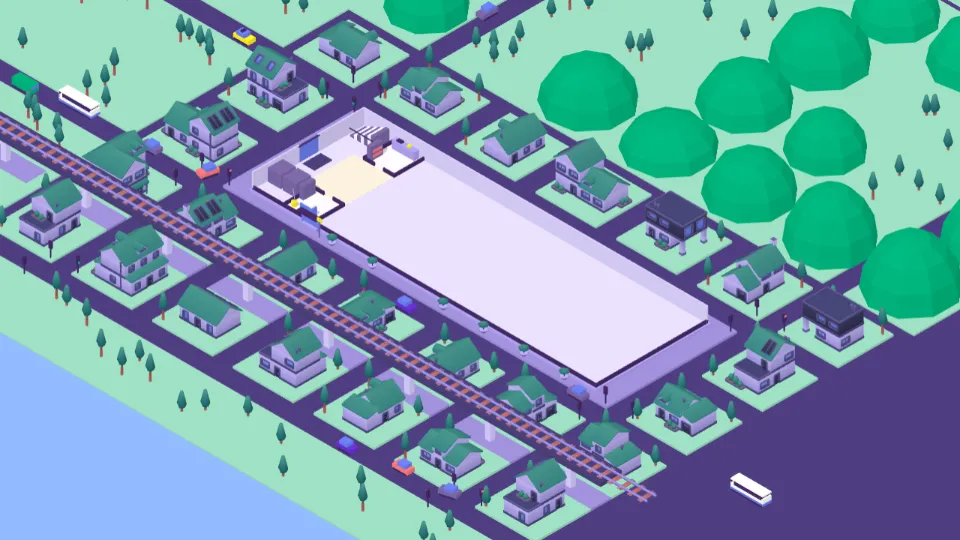
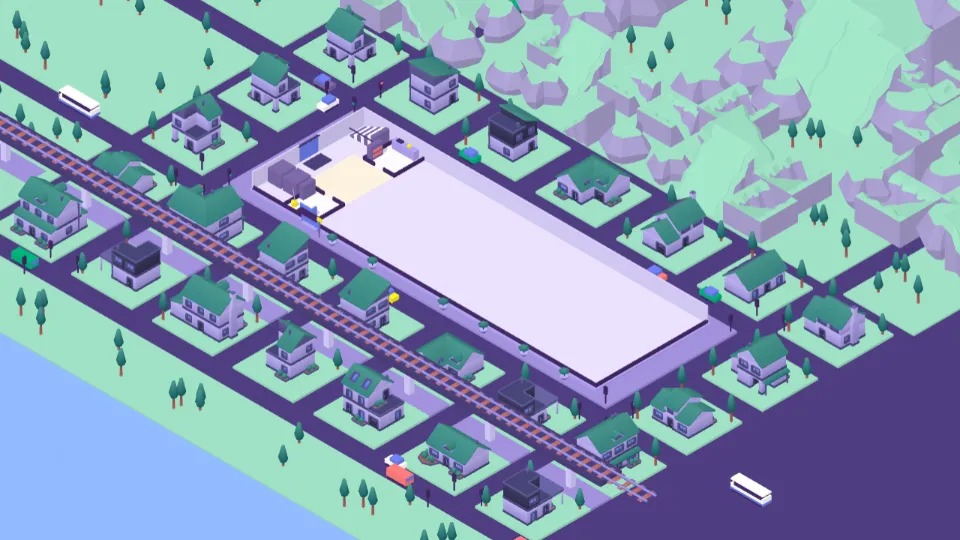
Fix: fix the hills in Amplify Hills (#173)

diff --git a/src/office/scene/Town.tsx b/src/office/scene/Town.tsx
@@ -6,8 +6,8 @@ import { useContext, useMemo, useRef } from 'react';
 import * as THREE from 'three';
 import { FLOOR, WEST, widthOf } from '../../config/office';
 import type { GameState } from '../../sim/state';
-import { CITY, modelUrl } from '../assets';
-import { PAVEMENT, RAILWAY, STREET, hidesOffice, officeBlock, streetLevel, townBlocks, trainAt, type TownBlock } from '../city';
+import { CITY, NATURE, modelUrl } from '../assets';
+import { PAVEMENT, RAILWAY, STREET, hidesOffice, officeBlock, rangeOf, streetLevel, townBlocks, trainAt, type TownBlock } from '../city';
 import { type Ground, type Site } from '../sites';
 import { BUS_STOP } from '../traffic';
 import { StreetLife } from './StreetLife';
@@ -54,6 +54,7 @@ export function Town({ floor, seed, site, game, still, materials }: {
         {/* Where the town is not all town, the land goes on beyond its last streets. */}
         {site.far && beyond('north', site.far, building.w / 2, edge.north - 100.5, 400, 200)}
         {site.far && beyond('west', site.far, edge.west - 100.5, FLOOR.h / 2, 200, 400)}
+        {site.hills && <Range seed={seed} site={site} materials={materials} />}
         {site.front && beyond('south', site.front, building.w / 2, (shore ? shore.to : edge.south) + 100, 400, 200, 0.02)}
         {shore && [edge.west - 100, edge.east + 100].map((x) => beyond(`shore${x}`, site.shore!, x, (shore.from + shore.to) / 2, 200, shore.to - shore.from, 0.04))}
         <mesh position={[own.x + own.w / 2, PAVEMENT / 2, own.z + own.d / 2]} material={materials.pavement}>
@@ -82,7 +83,6 @@ function TownBlockView({ block, site, pad, viewTurn, materials, tint }: { block:
   // Water and sand lie lower than a pavement; a field is striped with rows of another crop.
   const height = ground === 'water' ? 0.06 : ground === 'sand' ? 0.12 : block.land ? 0.16 : PAVEMENT;
   const building = useContext(Shape);
-  const hillAsBuilding = hill && { building: { file: '', w: hill.radius * 2, height: hill.height, d: hill.radius * 2 }, x: block.x, z: block.z, turn: 0 };
   return (
     <group>
       <mesh position={[x, height / 2, z]} material={materials[ground]}>
@@ -96,12 +96,12 @@ function TownBlockView({ block, site, pad, viewTurn, materials, tint }: { block:
         ))}
       {ground === 'sand' &&
         [-1.6, 0.4, 2].map((dx, n) => <KitModel key={dx} file={CITY.parasols[n % 2]!} position={[block.x + dx, height, block.z + (n - 1) * 1.2]} scale={2} tint={tint} />)}
-      {/* A hill: a low dome, flat-sided like everything else in town. */}
-      {hill && hillAsBuilding && !hidesOffice(hillAsBuilding, viewTurn, 1, building) && (
-        <mesh position={[block.x, height, block.z]} scale={[hill.radius, hill.height, hill.radius]} material={materials.plant}>
-          <sphereGeometry args={[1, 9, 4, 0, Math.PI * 2, 0, Math.PI / 2]} />
-        </mesh>
-      )}
+      {/* Foothills: the Nature Kit's slopes and cliffs, in the town's tones. */}
+      {hill
+        ?.filter((piece) => !hidesOffice(piece, viewTurn, piece.scale, building))
+        .map((piece, n) => (
+          <NatureModel key={n} file={piece.building.file} position={[piece.x, height + NATURE.sink * piece.scale, piece.z]} turn={piece.turn} scale={piece.scale} materials={materials} />
+        ))}
       {block.items
         .filter((item) => !hidesOffice(item, viewTurn, site.scale, building))
         .map((item, n) => (
@@ -196,6 +196,53 @@ function KitModel({ file, position, turn = 0, scale, tint, center = [0, 0] }: {
     <group position={position} rotation={[0, (turn * Math.PI) / 2, 0]} scale={scale}>
       <primitive object={object} position={[-center[0], 0, -center[1]]} />
     </group>
+  );
+}
+
+/** A model from the Nature Kit: each of its materials is swapped for the tone of the same name in the theme. */
+function NatureModel({ file, position, turn, scale, materials }: { file: string; position: [number, number, number]; turn: number; scale: number; materials: Materials }) {
+  const { scene } = useGLTF(modelUrl(file));
+  const object = useMemo(() => {
+    const copy = scene.clone(true);
+    copy.traverse((child) => {
+      const mesh = child as THREE.Mesh;
+      if (mesh.isMesh) mesh.material = materials[NATURE.tones[(mesh.material as THREE.Material).name] ?? 'rock'];
+    });
+    return copy;
+  }, [scene, materials]);
+  return (
+    <group position={position} rotation={[0, (turn * Math.PI) / 2, 0]} scale={scale}>
+      <primitive object={object} />
+    </group>
+  );
+}
+
+/**
+ * The range behind the town: faceted cones in rows, green at the foot and rock
+ * above, each row higher than the one in front. A peak that would hide the
+ * office from a turned view is left out, as a building is.
+ */
+function Range({ seed, site, materials }: { seed: number; site: Site; materials: Materials }) {
+  const viewTurn = useContext(ViewTurn);
+  const building = useContext(Shape);
+  const peaks = useMemo(() => rangeOf(seed, site, building), [seed, site, building]);
+  // The rock starts this far up a peak; the cap is the same cone, from there to the top.
+  const rockFrom = 0.55;
+  return (
+    <>
+      {peaks
+        .filter((peak) => !hidesOffice({ building: { file: '', w: peak.radius * 2, height: peak.height, d: peak.radius * 2 }, x: peak.x, z: peak.z, turn: 0 }, viewTurn, 1, building))
+        .map((peak, n) => (
+          <group key={n} position={[peak.x, 0, peak.z]} rotation={[0, peak.angle, 0]}>
+            <mesh position={[0, peak.height / 2, 0]} material={materials.plant}>
+              <coneGeometry args={[peak.radius, peak.height, peak.sides, 1]} />
+            </mesh>
+            <mesh position={[0, peak.height * (rockFrom + (1 - rockFrom) / 2), 0]} material={materials.rock}>
+              <coneGeometry args={[peak.radius * (1 - rockFrom) * 1.02, peak.height * (1 - rockFrom) * 1.01, peak.sides, 1]} />
+            </mesh>
+          </group>
+        ))}
+    </>
   );
 }
 

diff --git a/src/office/city.ts b/src/office/city.ts
@@ -4,7 +4,7 @@
 // drives in the streets is in traffic.ts.
 
 import { BUILDINGS, FLOOR, WEST, widthOf, type Building } from '../config/office';
-import { CITY, type CityBuilding } from './assets';
+import { CITY, NATURE, type CityBuilding } from './assets';
 import { SITES, SITE_YARD, type Ground, type Site } from './sites';
 
 export interface TownBuilding {
@@ -14,6 +14,23 @@ export interface TownBuilding {
   z: number;
   /** Quarter turns. */
   turn: number;
+}
+
+/** A piece of a foothill: drawn `scale` times the size of its model. */
+export interface HillPiece extends TownBuilding {
+  scale: number;
+}
+
+/** A peak of the range behind the town: a faceted cone, green at its foot and rock above. */
+export interface RangePeak {
+  /** Middle of its foot, in floor tiles. */
+  x: number;
+  z: number;
+  radius: number;
+  height: number;
+  /** Sides of the cone, and how far it is turned round. */
+  sides: number;
+  angle: number;
 }
 
 /** A block of the town: what it is covered with and what stands on it. */
@@ -27,8 +44,8 @@ export interface TownBlock {
   ground: Ground;
   /** The building, the things in a yard, or the trees. */
   items: TownBuilding[];
-  /** A hill that takes up the block: how high it is and how wide at its foot. */
-  hill?: { height: number; radius: number };
+  /** Foothills on the block: pieces of the Nature Kit that overlap with those of the blocks beside it. */
+  hill?: HillPiece[];
   /**
    * For open land: the ground it covers, by its middle and its size. It runs
    * on into the blocks beside it, and stops short only of a street with traffic.
@@ -172,9 +189,9 @@ export function townBlocks(seed: number, site: Site = SITES.capital, building: B
         continue;
       }
       if (site.far && (i <= -2 || j <= -2)) {
-        const hill = site.hills && j <= -2 && chance(seed, i, j, 11) < 0.7;
+        const hill = site.hills && j <= -2 && chance(seed, i, j, 11) < 0.8 ? hillOn(seed, i, j, x, z, building) : undefined;
         const trees = site.far === 'grass' && !hill ? treesOn(seed, i, j, x, z, 5, site, building) : [];
-        blocks.push({ i, j, x, z, ground: site.far, items: trees, land: landOf(i, j, building), ...(hill && { hill: { height: 2.6 + chance(seed, i, j, 12) * 2.6, radius: 3 + chance(seed, i, j, 13) * 0.8 } }) });
+        blocks.push({ i, j, x, z, ground: site.far, items: trees, land: landOf(i, j, building), ...(hill && { hill }) });
         continue;
       }
       if (!inFront && chance(seed, i, j, 14) < site.yards) {
@@ -192,6 +209,56 @@ export function townBlocks(seed: number, site: Site = SITES.capital, building: B
     }
   }
   return blocks;
+}
+
+/**
+ * The foothills of a block: a few of the kit's slopes and cliffs, spread over
+ * the block and a little beyond it so that they run into those of the next.
+ * The further back the block (j = -5 is the last), the larger the pieces.
+ */
+function hillOn(seed: number, i: number, j: number, x: number, z: number, office: Building): HillPiece[] {
+  const row = -2 - j;
+  const pieces: HillPiece[] = [];
+  for (let n = 0; n < 4; n++) {
+    const building = NATURE.foothills[Math.floor(chance(seed, i * 5 + n, j, 21) * NATURE.foothills.length)]!;
+    const scale = 2.8 + row * 0.9 + chance(seed, i * 5 + n, j, 22) * 1.2;
+    const turn = Math.floor(chance(seed, i * 5 + n, j, 23) * 4);
+    // Four around the middle of the block, each moved a little at random.
+    const px = x + (n % 2 === 0 ? -1 : 1) * (1.6 + chance(seed, i * 5 + n, j, 24) * 1.2);
+    const pz = z + (n < 2 ? -1 : 1) * (1.4 + chance(seed, i * 5 + n, j, 25) * 1.2);
+    const [w, d] = turn % 2 === 0 ? [building.w, building.d] : [building.d, building.w];
+    // Whatever stands in front of the office stays low enough not to hide it.
+    if (building.height * scale + PAVEMENT <= clearance(px, pz, w * scale, d * scale, office)) pieces.push({ building, x: px, z: pz, turn, scale });
+  }
+  return pieces;
+}
+
+/**
+ * The range on the open land beyond the town's last street to the north: rows
+ * of peaks, 10 to 40 tiles out, each row higher than the one in front. Fixed
+ * by the seed, like the town; only in the hills.
+ */
+export function rangeOf(seed: number, site: Site, office: Building = BUILDINGS.standard): RangePeak[] {
+  if (!site.hills) return [];
+  const peaks: RangePeak[] = [];
+  const middle = office.w / 2;
+  const north = STREET.from.z;
+  const rows = [{ out: 12, height: 7, step: 9 }, { out: 22, height: 12, step: 11 }, { out: 34, height: 17, step: 13 }];
+  rows.forEach((row, r) => {
+    for (let n = -6; n <= 6; n++) {
+      const at = (r * 13 + n) * 31;
+      const radius = row.out * 0.6 * (0.75 + chance(seed, n, r, 31) * 0.5);
+      peaks.push({
+        x: middle + n * row.step + (chance(seed, n, r, 32) - 0.5) * row.step * 0.6,
+        z: north - row.out - chance(seed, n, r, 33) * 6,
+        radius,
+        height: row.height * (0.7 + chance(seed, n, r, 34) * 0.6),
+        sides: 5 + Math.floor(chance(seed, at, r, 35) * 2),
+        angle: chance(seed, n, r, 36) * Math.PI,
+      });
+    }
+  });
+  return peaks;
 }
 
 /** One building in the middle of a block, turned any way it fits and hides nothing. */

diff --git a/src/office/sites.test.ts b/src/office/sites.test.ts
@@ -4,7 +4,7 @@ import { ACTIVE_REGIONS } from '../config/balance';
 import { FLOOR } from '../config/office';
 import { REGIONS, type RegionId } from '../config/world';
 import { CITY } from './assets';
-import { PAVEMENT, STREET, clearance, townBlocks, townBuildings } from './city';
+import { PAVEMENT, STREET, clearance, rangeOf, townBlocks, townBuildings } from './city';
 import { SITES, SITE_YARD } from './sites';
 import { createStreet, stepStreet, strollers } from './street';
 import { touching, touchingPerson } from './touching';
@@ -69,7 +69,11 @@ describe('the surroundings of the office by region (Phase 11f)', () => {
             expect(Math.abs(item.z - block.z) + d / 2, `${id} ${item.building.file}`).toBeLessThanOrEqual(PAD.d / 2 + 0.01);
             expect(item.building.height * site.scale + PAVEMENT, `${id} ${item.building.file}`).toBeLessThanOrEqual(clearance(item.x, item.z, Math.min(w, 1), Math.min(d, 1)) + 1e-9);
           }
-          if (block.hill) expect(block.hill.height).toBeLessThanOrEqual(clearance(block.x, block.z, block.hill.radius * 2, block.hill.radius * 2));
+          for (const piece of block.hill ?? []) {
+            const [w, d] = (piece.turn % 2 === 0 ? [piece.building.w, piece.building.d] : [piece.building.d, piece.building.w]).map((side) => side * piece.scale);
+            expect(piece.building.file.startsWith('nature/'), piece.building.file).toBe(true);
+            expect(piece.building.height * piece.scale + PAVEMENT, `${id} ${piece.building.file}`).toBeLessThanOrEqual(clearance(piece.x, piece.z, w!, d!));
+          }
         }
         // Enough stands: a town, not a field with a house in it.
         expect(townBuildings(seed, site).length, id).toBeGreaterThan(25);
@@ -164,6 +168,14 @@ describe('the surroundings of the office by region (Phase 11f)', () => {
       const hills = townBlocks(7, SITES[id]).filter((block) => block.hill);
       expect(hills.length > 0, id).toBe(id === 'highlands');
       for (const block of hills) expect(block.j).toBeLessThanOrEqual(-2);
+      // The range behind the town, in the hills only, fixed by the seed, on open land north of the last street and rising row by row.
+      const range = rangeOf(7, SITES[id]);
+      expect(range.length > 0, id).toBe(id === 'highlands');
+      expect(rangeOf(7, SITES[id])).toEqual(range);
+      for (const peak of range) {
+        expect(peak.z + peak.radius).toBeLessThan(STREET.from.z);
+        expect(peak.z).toBeGreaterThan(STREET.from.z - 45);
+      }
     }
     // The beach: sand beyond the last street in front, the sea beyond the sand.
     const front = townBlocks(7, SITES.coast).filter((block) => block.land);

diff --git a/src/office/assets.ts b/src/office/assets.ts
@@ -4,7 +4,7 @@
 // a model, or replacing a part built from simple shapes by a real model, is a
 // change in this file only.
 //
-// Models: Kenney's Furniture Kit, Mini Characters, City Kit (Commercial) and Train Kit, all CC0, in public/models.
+// Models: Kenney's Furniture Kit, Mini Characters, City Kit (Commercial), Train Kit and Nature Kit, all CC0, in public/models.
 
 import { GIVEN_NAMES_FEMALE, GIVEN_NAMES_MALE } from '../config/names';
 import type { FurnitureType } from '../config/office';
@@ -15,7 +15,7 @@ export type Tone =
   | 'metal' | 'metalMid' | 'metalDark' | 'lamp' | 'onAir' | 'accent'
   | 'street' | 'pavement' | 'facade' | 'trim' | 'glass'
   // The land around the towns that are not all town.
-  | 'grass' | 'sand' | 'water' | 'field';
+  | 'grass' | 'sand' | 'water' | 'field' | 'rock';
 
 /** Which tone replaces each material of the kit's models. */
 export const MATERIAL_TONES: Record<string, Tone> = {
@@ -1651,6 +1651,31 @@ export const FURNITURE_ASSETS: Record<FurnitureType, FurnitureAsset> = {
 };
 
 // --- The town around the office ---
+
+/** A piece of the Nature Kit: its file and its size in the kit's own units (the middle of its foot is on its origin). */
+export interface NaturePiece {
+  file: string;
+  w: number;
+  height: number;
+  d: number;
+}
+
+/**
+ * The hills of Amplify Hills. Foothills are the kit's green slopes and cliffs,
+ * drawn several times their size and overlapped; the range behind the town is
+ * built from shapes (see `rangeOf`), as the kit has nothing taller than a block.
+ */
+export const NATURE = {
+  foothills: [
+    { file: 'nature/cliff_blockSlope_stone.glb', w: 1.2, height: 1, d: 1 },
+    { file: 'nature/cliff_blockSlopeHalfWalls_stone.glb', w: 1, height: 0.5, d: 1 },
+    { file: 'nature/rock_largeD.glb', w: 1.07, height: 0.57, d: 1.03 },
+  ] as readonly NaturePiece[],
+  /** The base of every piece lies a little below its origin, in the kit's units. */
+  sink: 0.05,
+  /** Which tone replaces each material of the kit's models. */
+  tones: { grass: 'grass', stone: 'rock', dirt: 'rock' } as Record<string, Tone>,
+};
 
 /** A building of the town: its file and its size in the kit's own units. */
 export interface CityBuilding {

diff --git a/src/wiki/lore.ts b/src/wiki/lore.ts
@@ -218,7 +218,7 @@ export const LORE_ARTICLES = {
     category: 'lore',
     summary: 'The middle of the country: much land, few people.',
     facts: regionFacts('highlands', ['Counties', 'Nipkow, Shoenberg, Korn, Ardenne, Hell'], 'The cities Stroedel and Apfel; the hills themselves'),
-    picture: { file: 'amplify-hills.webp', caption: 'A town in the hills: houses with gardens, woods behind them and the lake in front.' },
+    picture: { file: 'amplify-hills.webp', caption: 'A town in the hills: houses with gardens, hills behind them and the lake in front.' },
     sections: [
       {
         body: [

diff --git a/src/ui/styles.css b/src/ui/styles.css
@@ -125,6 +125,7 @@
   --o3-sand: #f6e6bd;
   --o3-water: #8eb6ff;
   --o3-field: #ecdd8f;
+  --o3-rock: #a99fcf;
 
   /* Type */
   --font-display: 'Fjalla One', 'Arial Narrow', Impact, sans-serif;
@@ -217,6 +218,7 @@
   --o3-sand: #6a5a3c;
   --o3-water: #263c8c;
   --o3-field: #6a6232;
+  --o3-rock: #4b4078;
   color-scheme: dark;
 }
 

diff --git a/src/office/scene/materials.ts b/src/office/scene/materials.ts
@@ -28,6 +28,7 @@ const TONE_TOKENS: Record<Tone, string> = {
   sand: '--o3-sand',
   water: '--o3-water',
   field: '--o3-field',
+  rock: '--o3-rock',
 };
 
 const SURFACE_TOKENS = {

diff --git a/design/style.md b/design/style.md
@@ -118,7 +118,7 @@ Built in Phases 5f and 5g with Kenney's Furniture Kit, Mini Characters, City Kit
 - **Labels** on the view are small windows: white, with the lilac line underneath.
 - **The town** around the office uses Kenney's City Kit (Commercial), tinted lavender by day and dark purple at night so it stays behind the office. Floor 1 stands at street level; the floors under floors 2 and 3 are drawn like the kit's buildings (pale walls, blue windows, a dark band per storey, the kit's awnings). Streets are dark purple, pavements lavender, cars are simple shapes in the accent colors.
 - **A block in town is built up**: terraces of kit buildings wall to wall along the streets, fronts to the pavement, back to back where the block is deep enough; a tower, a large hall or a house with a garden has the block to itself.
-- **Each region has its own surroundings** (`src/office/sites.ts`): the Commercial kit in Coaxia, the Industrial kit in Transponder Valley, the Suburban kit in Amplify Hills and Aerial Fields, and both by the sea in Skywave Beach. All get the same tint. Open land is flat color: grass, sand, water and field (`--o3-grass`, `--o3-sand`, `--o3-water`, `--o3-field`), with fields striped in grass and hills as low green domes. Where the town lies by water, a shore runs along the last street (sand, or grass with trees), and the side streets end at that street.
+- **Each region has its own surroundings** (`src/office/sites.ts`): the Commercial kit in Coaxia, the Industrial kit in Transponder Valley, the Suburban kit in Amplify Hills and Aerial Fields, and both by the sea in Skywave Beach. All get the same tint. Open land is flat color: grass, sand, water and field (`--o3-grass`, `--o3-sand`, `--o3-water`, `--o3-field`), with fields striped in grass and hills as Nature Kit foothills (green-topped stone slopes, `public/models/nature/`) with a range of rock behind them (`--o3-rock`), never as round domes. Where the town lies by water, a shore runs along the last street (sand, or grass with trees), and the side streets end at that street.
 - **The railway** in front of the office uses Kenney's Train Kit with the same tint. The train is the kit's yellow double-decker, a Dutch one, in every year.
 - **Portraits** of people are pictures of their 3D character on the mist background, in a small square frame standing on a lavender edge.
 - **Drawing a room**: the floor that can be built on gets a faint green wash. The room being drawn is a see-through sheet with low walls, green where it can be built and red where it can't, with a label over it that gives its size and, in red, the reason. The door is a yellow dot in the wall; a paler dot follows the pointer along the walls. The panel on the right has the kinds of room as a grid of buttons, three across, each with a small picture (56 by 42, from `src/assets/rooms`, drawn from the catalog's own pictures on a clear ground) over its name, then the numbered steps, the − and + buttons for the four walls, and the cost beside the button that builds. Open floor is the corridor color everywhere. The building's own outer walls are low at the front of the view and tall at the back.

diff --git a/Decisions.md b/Decisions.md
@@ -188,7 +188,7 @@ On 18 October 2026:
 - **Rooms have no buttons above the office (0.11.0).** A room's name label in the office can be clicked, and carries the `data-guide` that Penny's ring looks for; the Office window lists the rooms for the keyboard.
 - **Penny's ring finds its control by `data-guide`.** What she points at has to stay in sight, which is why some buttons sit in a sticky footer; a control that is scrolled out of sight in its window is brought into view, a few times and no more. Her "Show me" can also clear the view (`floor`) for a step that starts in the office.
 - **The story figures gesture by code, not by clip:** their files have no talking movement, so `StoryFigure.tsx` turns the arm and head bones on top of the idle clip while their own line is heard, and hangs a mouth on the head that follows the loudness of the voice (`voiceLevel`).
-- **Models** are Kenney's kits (furniture, characters, three city kits, the train) and Quaternius's figures (Uncle Tabby, Penny, and the two presenters of the awards night, each a different model from his packs), all CC0, in `public/models`. Broadcast equipment and vehicles are built from simple shapes in the registry, `src/office/assets.ts`, where every piece is listed part by part. Characters are recolored by pointing a part at another swatch of the kit's one texture. The black-haired ones have their eyes and mouth painted from the hair's swatch, so a new hair color leaves alone the small pieces of that swatch (`FACE_PIECE_POINTS` in `office/looks.ts`); a beard is a bigger piece and takes the hair's color.
+- **Models** are Kenney's kits (furniture, characters, three city kits, the train, the Nature Kit for the foothills of Amplify Hills, whose materials are swapped for the theme's tones; the range behind them is cones built from shapes, as the kit has nothing taller than a block) and Quaternius's figures (Uncle Tabby, Penny, and the two presenters of the awards night, each a different model from his packs), all CC0, in `public/models`. Broadcast equipment and vehicles are built from simple shapes in the registry, `src/office/assets.ts`, where every piece is listed part by part. Characters are recolored by pointing a part at another swatch of the kit's one texture. The black-haired ones have their eyes and mouth painted from the hair's swatch, so a new hair color leaves alone the small pieces of that swatch (`FACE_PIECE_POINTS` in `office/looks.ts`); a beard is a bigger piece and takes the hair's color.
 
 ## The desktop app
 
